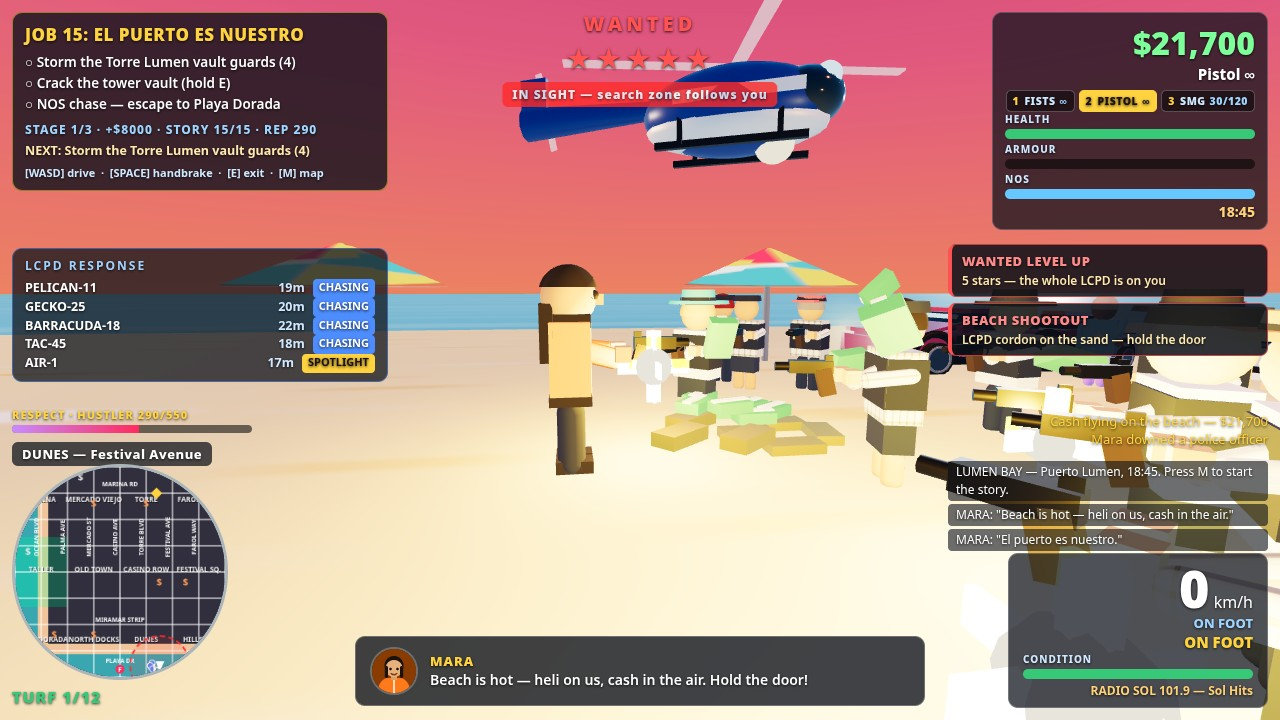
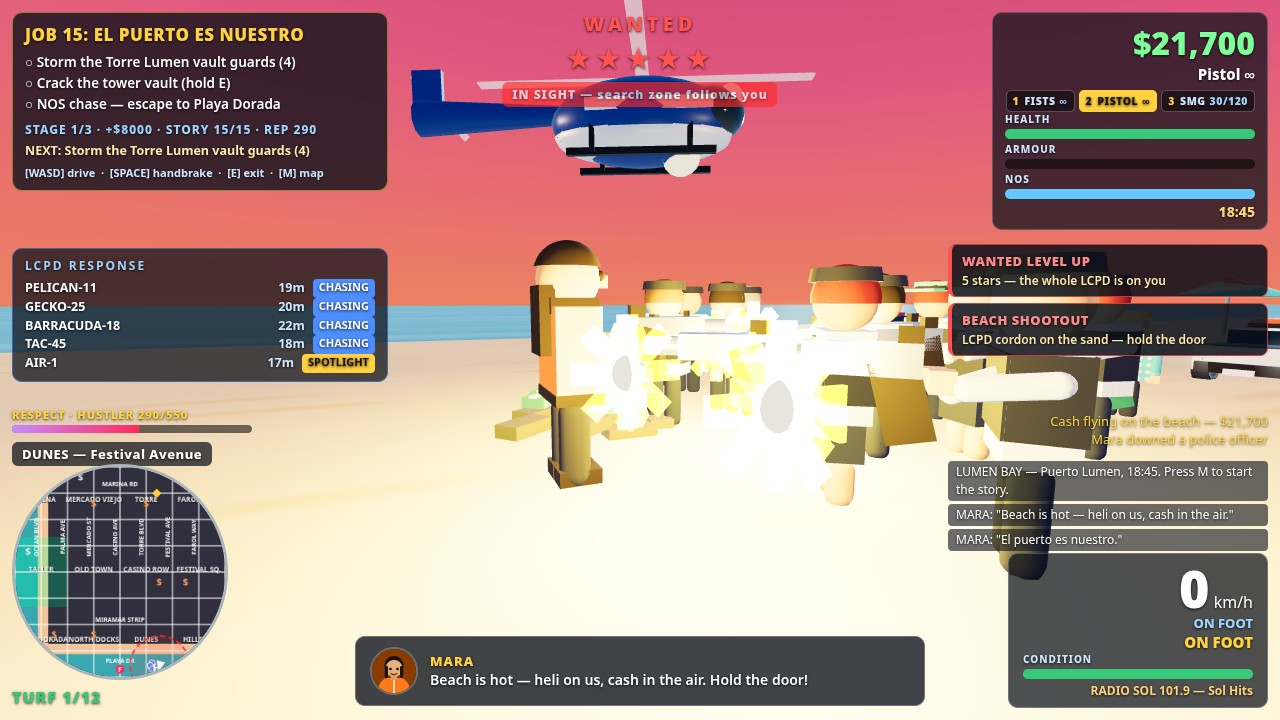
r12 targeted pass shots 2+4: readable pistol + starburst flash, boat as focal point
Shot 2: two-tone pistol (silver slide/barrel, black grip, 2.0x poseAim),
8-point thin-ray starburst flash past the muzzle tip, closer camera
(camYaw -0.25, dist 6.5), cordon moved into the view cone, cash burst
lowered to knee height, umbrellas behind the cordon cleared.
Shot 4: boat 3.6x at z=252 so the whole boat fits in frame, camera
higher (4.5) so the deck/windshield read as boat parts, banner lifted
to 12% (clear of the boat), umbrellas around the camera cleared.
Shot 1 + shot 3 untouched. Probe 13/13, kit 4/0, dossier 1169611 B.

diff --git a/game/src/shots.js b/game/src/shots.js
@@ -124,7 +124,7 @@ export function stageShot2(G) {
   G.warpTo(91, 214); // Mara on foot on the sand, facing west in profile
   G.player.heading = -Math.PI / 2;
   G.player.mesh.group.rotation.y = -Math.PI / 2;
-  G.player.mesh.group.scale.setScalar(1.3); // Mara reads BIG
+  G.player.mesh.group.scale.setScalar(1.4); // Mara reads BIG
   G.player.weapon = 'pistol'; // PISTOL, not SMG — Sand's order
   poseAim(G.player.mesh.group); // two-handed aim, pistol out in front
   // Police cordon closing in ahead (WEST), tight and close, firing back
@@ -133,16 +133,18 @@ export function stageShot2(G) {
   // LARGE from the camera (v3's 8–14 m cordon read as toy soldiers at
   // the frame edge) and the sim holds them in place (updateEnemy only
   // advances officers further than 20 m out). Every officer is posed
-  // aiming and scaled up.
+  // aiming and scaled up. The two northern groups sit SOUTH enough
+  // (z 214/216, not 210/212) to stay inside the camera's view cone —
+  // at camYaw -0.25 the old 210/212 groups fell off the right edge.
   const squad = [
-    ...G.spawnEnemiesAt(85, 210, 4, 'police'),
+    ...G.spawnEnemiesAt(85, 214, 4, 'police'),
     ...G.spawnEnemiesAt(87, 216, 3, 'police'),
     ...G.spawnEnemiesAt(83, 218, 3, 'police'),
-    ...G.spawnEnemiesAt(86, 212, 2, 'police'),
+    ...G.spawnEnemiesAt(86, 216, 2, 'police'),
   ];
   for (const e of squad) {
     poseAim(e.mesh);
-    e.mesh.scale.setScalar(1.15);
+    e.mesh.scale.setScalar(1.3);
   }
   // ONE parked cruiser flanking the cordon at its north end — static
   // prop (not in the police array, so updatePolice never drives it off),
@@ -150,13 +152,28 @@ export function stageShot2(G) {
   // south flanker is dropped: the hero Comet parks there instead.
   G.parkPoliceCar(78, 206, Math.PI / 2);
   // Muzzle flashes: Mara's FIRST, at her pistol tip west of her hands —
-  // big star + light, clearly past her silhouette — then the cordon's,
-  // one per officer at his pistol tip (east of him, toward Mara).
-  G.addMuzzleFlash(89.8, 1.5, 214, 1.5);
-  for (const e of squad.slice(0, 4)) G.addMuzzleFlash(e.x + 1.3, 1.4, e.z, 1.2);
-  // Cash flying in the air between Mara and the cordon + a spill by her feet.
-  G.spawnCashBurst(86, 214);
-  G.spawnLootPile(88, 215);
+  // a BIG 8-point starburst + light, clearly past her silhouette — then
+  // the cordon's, one per officer at his pistol tip (east of him, toward
+  // Mara). Positions are the barrel tips after the poseAim 1.8x gun scale
+  // and the figure scale (Mara 1.4: tip 2.36 m west of her centre at
+  // chest height 1.85; officers 1.3: tip 2.19 m east, height 1.72).
+  // Round-2 targeted pass: the old scale-1.5 flash read as a small white
+  // glow blob — Mara's is now 2.0, the cordon's 1.6, on the new 8-point
+  // starburst (see addMuzzleFlash). The first 2.8-scale take was a solid
+  // yellow blob that swallowed the pistol and the cordon, so the star is
+  // now THIN-rayed with gaps and the scale is pulled back to 2.0 — and
+  // the flash centre sits 0.5 m PAST the muzzle tip (Mara's tip is at
+  // x=88.5 after the 2.0x gun scale, officers' at e.x+2.31), so the full
+  // barrel shows east of the flash instead of hiding inside it. Mara's
+  // flash is 1.6, not 2.0: at 2.0 the star's rays still covered the
+  // grip hanging below the slide.
+  G.addMuzzleFlash(88.0, 1.85, 214.2, 1.6);
+  for (const e of squad.slice(0, 4)) G.addMuzzleFlash(e.x + 2.7, 1.72, e.z, 1.6);
+  // Cash flying LOW between Mara and the cordon (knee-to-waist height now
+  // — see spawnCashBurst) + a spill by her feet, set SOUTH of her gun
+  // line so the gold bars never sit under the pistol in frame.
+  G.spawnCashBurst(85, 213);
+  G.spawnLootPile(90, 216.5);
   // Heli overhead SOUTH-WEST over the waterline (angle pinned by the
   // autopilot). Hover 2 (body at y=10), orbit 16: at orbit 24 + angle PI
   // the heli sat 66° off-axis and out of frame; angle 2.4 puts it 34°
@@ -187,18 +204,23 @@ export function stageShot2(G) {
   G.state.health = 100;
   G.state.armour = 100; // the cordon shoots back through the whole settle
   // LOW ground-level PROFILE view from the NORTH, looking SOUTH across
-  // the firing line: the camera sits 7 out, 2.8 high, at camYaw 0 — Mara
-  // faces west in profile with her pistol + flash toward the cordon, the
-  // cordon fills the centre in profile facing her with its muzzle
-  // flashes, the Comet reads at the left edge, and the background is
-  // open beach + sea + sunset sky. NO building in the frame. The camera
-  // sits 1 m SOUTH of the z=204 umbrella row, so the row stays behind
-  // the lens instead of looming in the foreground (v3's giant blob).
+  // the firing line: the camera sits 6.5 out (was 7 — closer so Mara's
+  // pistol + flash read at a glance), 2.6 high, at camYaw -0.25 (turned
+  // slightly west, down the firing line, so the cordon stays in frame)
+  // — Mara faces west in profile with her pistol + flash toward the
+  // cordon, the cordon fills the centre in profile facing her with its
+  // muzzle flashes, the Comet reads at the right edge, and the background
+  // is open beach + sea + sunset sky. NO building in the frame. The
+  // camera sits 1 m SOUTH of the z=204 umbrella row, so the row stays
+  // behind the lens instead of looming in the foreground (v3's giant
+  // blob) — and the z=224 row behind the cordon is cleared outright
+  // below, so no umbrella sits behind the duel.
   // Mara reads BIG in frame.
-  G.camYaw = 0;
-  G.setCamDist(7);
-  G.setCamHeight(2.8);
+  G.camYaw = -0.25;
+  G.setCamDist(6.5);
+  G.setCamHeight(2.6);
   G.camPitch = -0.05;
+  G.clearUmbrellasNear(91, 214, 18); // the umbrella behind the cordon goes
 }
 // FULL CITY MAP of Puerto Lumen (21:40) — the finale's escape plan, not a
 // 3D scene. Sand rejected the vault interior (sparse brown/orange, gold
@@ -256,14 +278,19 @@ export function stageShot3(G) {
 // parked on the sand at the water's edge, the speedboat moored just off it,
 // Mara's crew standing by the car, MISSION PASSED banner and the
 // story-progress line (STORY 15/15, SAVE SLOT 1).
-// r12 round-2 re-shoot (Sand ~23:45: the 91f401a boat sat BEHIND the
-// MISSION PASSED banner): the boat now moors WEST of the car (it reads
-// right-of-centre from the south-facing camera, clear of the centred
-// banner), the car faces WEST toward it, the camera is LOW (height 3.2)
-// so the boat — 40 m out, low over the water — drops to the lower half
-// of the frame instead of floating up behind the banner, and the banner
-// itself is lifted to 26% height. The boat is bigger (3.8x) with a real
-// tapered bow (see main.js spawnBoat).
+// r12 round-2 targeted pass (Sand: the boat was a thin strip partly
+// hidden behind the car + umbrella, NOT the focal point): the boat is
+// 3.6x and moored FURTHER out (z=252) with a slight three-quarter angle
+// so the WHOLE boat fits in frame with sea + sky around it — the first
+// 4.5x take at z=247 filled the whole width and read as a flat white
+// wall, its deck + windshield + motor cut off at the frame edges. The
+// camera is higher (4.5) so the deck reads as a surface and the
+// windshield sits on it instead of floating as a slab. The beach
+// umbrellas around the camera are cleared so none looms over the boat,
+// and the MISSION PASSED banner is lifted to 12% — above the boat's
+// cabin top — so it can never cover the boat. The car stays foreground
+// centre; it occludes only a thin slice of the boat's length, like a
+// car parked on the beach in front of a moored boat.
 export function stageShot4(G) {
   G.setLighting('dawn'); // 06:10 — also stamps the HUD clock
   G.spawnSandPatch(); // the dawn beach, deterministically tan
@@ -279,14 +306,16 @@ export function stageShot4(G) {
   G.missions.active = false;
   G.missions.objective = 'Story complete — Puerto Lumen is yours. Free roam!';
   // The getaway boat, moored IN THE WATER directly south of the car
-  // (dead-ahead in frame, lower-centre) — 3.4x, side-on to the low
-  // camera, tapered bow pointing EAST (left), white hull + red stripe +
-  // windshield + outboard motor. Centred so its 31 m length spans the
-  // frame instead of being cut off at the right edge and hidden behind
-  // the toast panels (v2's west-moored boat) or shrunk to a bar (v3's
-  // far-out boat). It sits in the lower half of the frame, BELOW and
-  // CLEAR of the MISSION PASSED banner — never behind it.
-  G.spawnBoat(-158, 246, Math.PI / 2, 3.4);
+  // (dead-ahead in frame, centre) — 3.6x, slight three-quarter angle so
+  // the tapered bow + deck + windshield + outboard motor all read, white
+  // hull + red stripe, 32 m long so the whole boat fits in frame with
+  // margins instead of being cut off at the edges. It sits in the
+  // centre of the frame, BELOW and CLEAR of the MISSION PASSED banner —
+  // never behind it.
+  G.spawnBoat(-158, 252, Math.PI / 2 - 0.12, 3.6);
+  // The beach umbrellas around the camera/boat go: the z=224 row loomed
+  // in the left foreground and hid the boat behind a giant canopy.
+  G.clearUmbrellasNear(-158, 230, 30);
   // Morning mist over the sea, kept SMALL and OFF the boat.
   G.spawnMist(-230, 258, 35);
   G.spawnMist(-105, 272, 35);
@@ -302,22 +331,24 @@ export function stageShot4(G) {
   G.spawnPedsNear(-166, 224, 3);
   G.clearTrafficNear(-158, 230, 30); // no stray car may cross the duel
   G.setDialogue('TIO REYES', 'Dawn breaks over the marina, Mara. The boat\'s waiting — Puerto Lumen is ours.');
-  G.hud.showBanner('MISSION PASSED', '+$8,000  ·  +500 REP  ·  UNLOCKED: PIER SAFEHOUSE', 600000, '26%');
+  G.hud.showBanner('MISSION PASSED', '+$8,000  ·  +500 REP  ·  UNLOCKED: PIER SAFEHOUSE', 600000, '12%');
   G.hud.notify('MISSION PASSED', 'El Puerto Es Nuestro  +$8,000', 'good', true);
   G.hud.notify('STORY 15/15 — SAVE SLOT 1', '100% COMPLETE — Puerto Lumen is yours', 'good', true);
   G.hud.log('MISSION PASSED: El Puerto Es Nuestro — +$8,000  ·  +500 REP');
   G.hud.log('STORY 15/15 — SAVE SLOT 1  100% COMPLETE.');
-  // LOW wide ESTABLISHING — camera north of the car on the beach, 14 out,
-  // 3.2 high (low, like top-1): the boat sits side-on and BIG in the
-  // lower-right of the frame, clear of the banner, the sunrise glows low
-  // over the visible sea behind it, the car + crew anchor the foreground.
+  // LOW wide ESTABLISHING — camera north of the car on the beach, 13.5
+  // out, 4.5 high (high enough to look down on the boat's deck so the
+  // windshield + seats read as boat parts, not floating slabs): the boat
+  // sits side-on and BIG in the centre of the frame, clear of the
+  // banner, the sunrise glows low over the visible sea behind it, the
+  // car + crew anchor the foreground.
   // The car is parked (G.holdStill) and anchored, so the slow settle can
   // never drift the frame.
-  G.camYaw = 0.2;
-  G.setCamDist(14);
-  G.setCamHeight(3.2);
+  G.camYaw = 0.15;
+  G.setCamDist(13.5);
+  G.setCamHeight(4.5);
   G.camPitch = 0.05;
-  G.anchor = [-158, 230]; // on the car — pins the frame; boat sits just west
+  G.anchor = [-158, 230]; // on the car — pins the frame; boat sits just south
 }
 /** Stage shot N (1..4) on the live game; any other value stages shot 1. */
 export function stageShot(n, G) {

diff --git a/game/src/main.js b/game/src/main.js
@@ -593,35 +593,53 @@ const G = {
       }
     }
   },
+  /** Remove beach umbrellas near a point (shot staging only): the z=224
+   umbrella row looms in the foreground of the low beach cameras — one
+   giant umbrella hid the shot-4 boat and one sat behind the shot-2
+   cordon. The city tracks every umbrella in city.umbrellas (city.js). */
+  clearUmbrellasNear(x, z, r) {
+    for (const u of (city.umbrellas || [])) {
+      if (dist2([u.x, u.z], [x, z]) < r) {
+        for (const m of u.meshes) city.group.remove(m);
+      }
+    }
+  },
   /** A PERSISTENT muzzle-flash glow at a gun position, so a shootout reads
-   in a still (the live 60 ms flash never lands in a screenshot). Now a
-   STAR, not a soft blob: two crossed emissive blades + a hot core + a
-   real point light, so the flash reads as a gunshot at a glance. */
+   in a still (the live 60 ms flash never lands in a screenshot). An
+   8-POINT STARBURST, not a soft blob: two crossed emissive blade pairs
+   (one axis-aligned, one diagonal) + a hot core + a big glow sprite + a
+   real point light, so the flash reads as a gunshot at a glance.
+   Round-2 targeted pass: the old 4-blade star read as a small white glow
+   blob at 5–7 m — blades are now longer AND thicker, the sprite bigger,
+   the light stronger. */
   addMuzzleFlash(x, y, z, scale) {
     const s = scale || 2.2;
     const flash = new THREE.Sprite(new THREE.SpriteMaterial({
-      map: sunGlowTexture(), color: 0xffe9a0, transparent: true, opacity: 0.95, depthWrite: false,
+      map: sunGlowTexture(), color: 0xffc21a, transparent: true, opacity: 0.95, depthWrite: false,
     }));
     flash.position.set(x, y, z);
     flash.scale.set(s * 0.25, s * 0.25, 1);
     R.scene.add(flash);
-    const core = new THREE.Mesh(new THREE.SphereGeometry(0.4 * (s / 2.2), 8, 8),
+    const core = new THREE.Mesh(new THREE.SphereGeometry(0.25 * (s / 2.2), 8, 8),
       new THREE.MeshBasicMaterial({ color: 0xfff6d8 }));
     core.position.set(x, y, z);
     R.scene.add(core);
-    const starMat = new THREE.MeshBasicMaterial({ color: 0xffd23f, transparent: true, opacity: 1, blending: THREE.AdditiveBlending, depthWrite: false });
-    // A 3D star: blades facing both axes, so the flash reads from any
-    // camera side (shot 2's camera sits west of the duel looking east).
+    const starMat = new THREE.MeshBasicMaterial({ color: 0xffb400, transparent: true, opacity: 1, blending: THREE.AdditiveBlending, depthWrite: false });
+    // An 8-point star: blades facing both axes AND the diagonals, so the
+    // flash reads as a starburst from any camera side (shot 2's camera
+    // sits north of the duel looking south). Blades are THIN with gaps
+    // between the rays — the first 2.8-scale take was a solid yellow
+    // blob that swallowed the pistol and the cordon behind it.
     for (const ry of [0, Math.PI / 2]) {
-      for (const a of [0, Math.PI / 2]) {
-        const blade = new THREE.Mesh(new THREE.BoxGeometry(s * 0.7, s * 0.14, 0.05), starMat);
+      for (const a of [0, Math.PI / 4, Math.PI / 2, (3 * Math.PI) / 4]) {
+        const blade = new THREE.Mesh(new THREE.BoxGeometry(s * 0.7, s * 0.13, 0.05), starMat);
         blade.position.set(x, y, z);
         blade.rotation.y = ry;
         blade.rotation.z = a;
         R.scene.add(blade);
       }
     }
-    const light = new THREE.PointLight(0xffc21a, 50, 14, 1.5);
+    const light = new THREE.PointLight(0xffc21a, 70, 16, 1.5);
     light.position.set(x, y, z);
     R.scene.add(light);
     return flash;
@@ -648,11 +666,14 @@ const G = {
       R.scene.add(strap);
     });
   },
-  /** Cash stacks frozen mid-air — money flying in a shootout still. */
+  /** Cash stacks frozen mid-air — money flying in a shootout still.
+   Kept LOW (knee-to-waist height): the old 1.4–2.6 m stacks floated at
+   gun height right across the firing line and read as the main action,
+   hiding the pistols and flashes behind green boxes. */
   spawnCashBurst(x, z) {
     const cash = new THREE.MeshStandardMaterial({ color: 0x2fae5f, roughness: 0.8 });
     const band = new THREE.MeshStandardMaterial({ color: 0xf2f2f2, roughness: 0.7 });
-    const spots = [[-2, -1, 1.6], [1.5, -2, 2.2], [2.5, 1, 1.8], [-1, 2, 2.6], [0.5, 0.5, 1.4]];
+    const spots = [[-2, -1, 0.9], [1.5, -2, 1.2], [2.5, 1, 1.0], [-1, 2, 1.4], [0.5, 0.5, 0.8]];
     spots.forEach(([dx, dz, h], i) => {
       const stack = new THREE.Mesh(new THREE.BoxGeometry(0.7, 0.2, 0.45), cash);
       stack.position.set(x + dx, h, z + dz);

diff --git a/game/src/people.js b/game/src/people.js
@@ -16,26 +16,35 @@ import { resolveCollisions } from './city.js';
 import { shirtTexture } from './textures.js';
 
 /** A REAL pistol (top-1/3 benchmark: the gun must read as a pistol at a
- glance): short slide + barrel + a vertical grip, ~0.4 m long total — NOT
+ glance): short slide + barrel + a vertical grip, ~0.5 m long total — NOT
  the old 0.7 m black slab that read as an SMG. Origin at the grip so
- poseAim() can seat it in the hands; barrel points +z (local forward). */
+ poseAim() can seat it in the hands; barrel points +z (local forward).
+ Round-2 targeted pass (shot 2 still did not read at a glance): the
+ pistol is CHUNKIER — a wider slide, a fatter barrel, a taller grip and
+ a taller front sight — so the slide + grip + barrel silhouette survives
+ at 5–7 m from the camera instead of collapsing into a dark nub. */
 export function makePistol() {
   const gun = new THREE.Group();
-  const steel = new THREE.MeshStandardMaterial({ color: 0x1a1a1e, roughness: 0.35, metalness: 0.8 });
-  const slide = new THREE.Mesh(new THREE.BoxGeometry(0.09, 0.1, 0.34), steel);
-  slide.position.set(0, 0.06, 0.1);
+  // TWO-TONE for at-a-glance readability: a bright silver slide + barrel
+  // against a near-black grip — the slide reads as a light metal bar and
+  // the grip as a dark vertical bar below it, an unmistakable pistol
+  // silhouette even at 5–7 m. The old all-dark gun vanished against the
+  // dark officers and washed tan under the warm sunset + flash lights.
+  const steel = new THREE.MeshStandardMaterial({ color: 0xc8ccd4, roughness: 0.3, metalness: 0.85 });
+  const dark = new THREE.MeshStandardMaterial({ color: 0x14100c, roughness: 0.7 });
+  const slide = new THREE.Mesh(new THREE.BoxGeometry(0.12, 0.12, 0.4), steel);
+  slide.position.set(0, 0.06, 0.12);
   gun.add(slide);
-  const barrel = new THREE.Mesh(new THREE.CylinderGeometry(0.035, 0.035, 0.12, 8), steel);
+  const barrel = new THREE.Mesh(new THREE.CylinderGeometry(0.045, 0.045, 0.16, 8), steel);
   barrel.rotation.x = Math.PI / 2;
-  barrel.position.set(0, 0.06, 0.32);
+  barrel.position.set(0, 0.06, 0.4);
   gun.add(barrel);
-  const grip = new THREE.Mesh(new THREE.BoxGeometry(0.09, 0.22, 0.12),
-    new THREE.MeshStandardMaterial({ color: 0x2a1a12, roughness: 0.8 }));
-  grip.position.set(0, -0.06, -0.02);
+  const grip = new THREE.Mesh(new THREE.BoxGeometry(0.12, 0.3, 0.16), dark);
+  grip.position.set(0, -0.08, -0.02);
   grip.rotation.x = 0.25;
   gun.add(grip);
-  const sight = new THREE.Mesh(new THREE.BoxGeometry(0.03, 0.05, 0.06), steel);
-  sight.position.set(0, 0.13, -0.04);
+  const sight = new THREE.Mesh(new THREE.BoxGeometry(0.04, 0.06, 0.08), dark);
+  sight.position.set(0, 0.15, -0.04);
   gun.add(sight);
   return gun;
 }
@@ -63,13 +72,14 @@ export function poseAim(group) {
   if (p.handL) p.handL.position.set(0.0, 1.3, 0.58);
   // Pistol CENTRED in front of the chest (a real two-handed stance), so
   // it reads in profile from EITHER camera side — the old x=0.44 seat hid
-  // the gun behind the body from the south camera. Scaled 1.4x: the
-  // 1:1 pistol vanished at 7 m.
+  // the gun behind the body from the south camera. Scaled 2.0x: the
+  // 1.4x pistol still vanished at 5–7 m (round-2 targeted pass); the
+  // flash sits 0.5 m PAST the muzzle now, so the full barrel shows.
   if (p.gun) {
     p.gun.visible = true;
     p.gun.position.set(0.15, 1.32, 0.82);
     p.gun.rotation.set(0, 0, 0);
-    p.gun.scale.setScalar(1.4);
+    p.gun.scale.setScalar(2.0);
   }
   return true;
 }

diff --git a/game/src/city.js b/game/src/city.js
@@ -19,6 +19,7 @@ function box(w, h, d, mat) {
 export function createCity(scene, rng) {
   const colliders = [];
   const landmarks = {};
+  const umbrellas = []; // every beach umbrella {x, z, meshes} — shot staging clears the ones in the way (see clearUmbrellasNear)
   const group = new THREE.Group();
   scene.add(group);
   // --- ground: grass base, wide sand beach south + west, sea beyond.
@@ -179,11 +180,11 @@ export function createCity(scene, rng) {
     leg.rotation.z = s * 0.35;
     group.add(leg);
   }
-  addPalmsAndProps(scene, group, rng, colliders, landmarks);
+  addPalmsAndProps(scene, group, rng, colliders, landmarks, umbrellas);
   addNeonAndFestival(scene, group, rng, landmarks);
-  return { colliders, landmarks, group };
+  return { colliders, landmarks, group, umbrellas };
 }
-function addPalmsAndProps(scene, group, rng, colliders, landmarks) {
+function addPalmsAndProps(scene, group, rng, colliders, landmarks, umbrellas) {
   // Palm rows along the beach avenues + scattered through the city.
   const palmTex = palmTexture(rng);
   const trunkMat = new THREE.MeshStandardMaterial({ color: 0x8a6f4d, roughness: 1 });
@@ -215,6 +216,7 @@ function addPalmsAndProps(scene, group, rng, colliders, landmarks) {
       const top = new THREE.Mesh(new THREE.ConeGeometry(3.2, 1.4, 8), umbMat);
       top.position.set(x, 3.4, z);
       group.add(top);
+      umbrellas.push({ x, z, meshes: [pole, top] });
     }
   }
   // Street lamps along the main avenues (unlit meshes; shots light the ones
